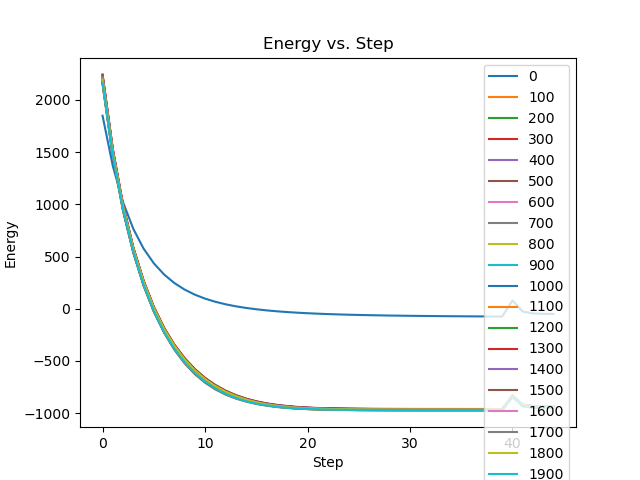
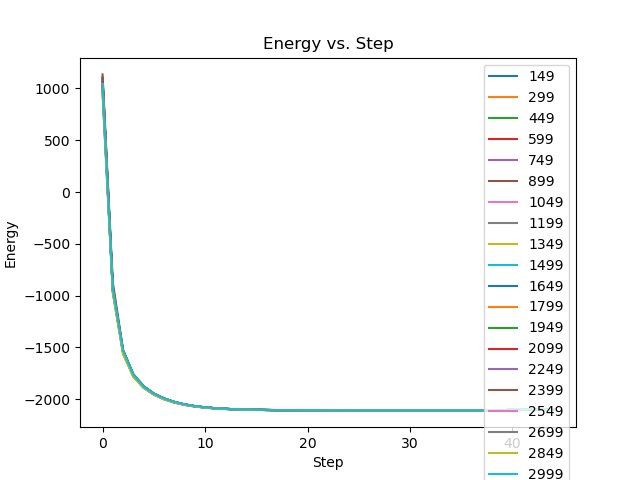
trying to run mnist experiemnts to find working hyperparameters

diff --git a/main.py b/main.py
@@ -8,9 +8,7 @@ import matplotlib.pyplot as plt
 import matplotlib.cm as cm
 import torchvision
 import torchvision.transforms as transforms
-from sklearn.manifold import TSNE
 import numpy as np
-from sklearn.manifold import TSNE
 
 parser = argparse.ArgumentParser()
 parser.add_argument("--input-size", type=int, default=50, help="Size of the input")
@@ -27,6 +25,7 @@ parser.add_argument("--seed", type=int, default=0, help="Random seed")
 parser.add_argument("--init", type=str, default="random", help="Initialization method for weights")
 parser.add_argument("--dataset", type=str, default="mnist", help="Dataset to use")
 parser.add_argument("--mr", type=float, default=0.1, help="Energy minimization rate")
+parser.add_argument("--lam", type=float, default=1.0, help="Lambda value for weight updates")
 args = parser.parse_args()
 
 
@@ -41,14 +40,16 @@ beta = args.beta # 1-40
 batch_dim = args.batch_dim
 n_iters = args.n_iters
 mr = args.mr #0.1
+lam = args.lam
 
 if args.dataset == "mnist":
     # Load the MNIST dataset
-    transform = transforms.Compose([transforms.ToTensor(), transforms.Lambda(lambda x: x.view(-1))])
+    transform = transforms.Compose([transforms.ToTensor(),torchvision.transforms.Normalize(mean=(0.0,), std=(1.0,)),transforms.Lambda(lambda x: x.view(-1))])
     trainset = torchvision.datasets.MNIST(root='~/datasets', train=True, download=True, transform=transform)
     trainloader = torch.utils.data.DataLoader(trainset, batch_size=batch_dim, shuffle=True, num_workers=2)
     testset = torchvision.datasets.MNIST(root='~/datasets', train=False, download=True, transform=transform)
     testloader = torch.utils.data.DataLoader(testset, batch_size=batch_dim, shuffle=False, num_workers=2)
+
 
 # Define the fixed random input x
 if args.dataset == "random":
@@ -68,13 +69,20 @@ target = torch.nn.functional.one_hot(t, num_classes=output_size)
 # Define the optimizer
 
 # For weight updates
-model = HopfieldEnergy(input_size, hidden1_size, hidden2_size, output_size, beta=beta)
+model = HopfieldEnergy(input_size, hidden1_size, hidden2_size, output_size, beta=beta, lam=lam)
 
 
 # Optimization loop
 print("\n\n")
-print("beta: ",beta)
-print("learning_rate: ",learning_rate)
+print(r"$\beta$: ",beta)
+print("Learning rate: ",learning_rate)
+print("Iterations: ",n_iters)
+print("Free phase steps: ",free_steps)
+print("Nudge phase steps: ",nudge_steps)
+print("Minimization rate: ",mr)
+print("batch_dim: ",batch_dim)
+print("\n\n")
+
 error = []
 
 ###############
@@ -123,12 +131,15 @@ for itr in range(n_iters): # Random
     y_free = y.detach().clone()
 
 
-    if (itr+1)%(n_iters//5) == 0:
+    if (itr+1)%(n_iters//10) == 0:
         print("Iteration: ",itr+1)
         # print("Output: ",y_free)
         print("Error: ",(y_free-target).pow(2).sum())
         prediction = torch.argmax(y_free, dim=1)
-        print("Accuracy: ",torch.mean((prediction==t).float()))
+        accuracy = torch.mean((prediction==t).float())
+        print("Accuracy: ",accuracy)
+        if accuracy < 0.2:
+            assert(0)   # Kill if not learning
 
     error.append((y_free-target).pow(2).sum())
 
@@ -168,7 +179,7 @@ for itr in range(n_iters): # Random
     model.b2.weight.data += learning_rate * b2_update
     model.b3.weight.data += learning_rate * b3_update
 
-    if itr%100==0:
+    if (itr+1)%(n_iters//20) == 0:
         # Plot the energies
         plt.plot(energies,label=str(itr))
         plt.xlabel('Step')
@@ -176,7 +187,7 @@ for itr in range(n_iters): # Random
         plt.title('Energy vs. Step')
         plt.legend()
         plt.savefig('energy_vs_step.png')
-
+    if (itr+1)%(n_iters//200) == 0:
         # Plot the error
         plt.figure()
         plt.plot(error)
@@ -220,31 +231,33 @@ y_free = y.detach().clone()
 
 # print(y_free)
 
-# t-SNE plot to visualize clusters in h1_free
-colors = [t[i % batch_dim] for i in range(batch_dim * n_samples)]  # Example color vector
-cmap = cm.get_cmap('viridis')
-s, alpha = 2, 0.02
+# # t-SNE plot to visualize clusters in h1_free
+# from sklearn.manifold import TSNE
 
-X_embedded_h1 = TSNE(n_components=2).fit_transform(h1_free.numpy())
-plt.subplot(1, 3, 1)
-plt.scatter(X_embedded_h1[:, 0], X_embedded_h1[:, 1], c=colors, s=s, alpha=alpha, cmap=cmap)
-plt.title('hidden 1')
-plt.gca().set_aspect('equal')
+# colors = [t[i % batch_dim] for i in range(batch_dim * n_samples)]  # Example color vector
+# cmap = cm.get_cmap('viridis')
+# s, alpha = 2, 0.02
 
-# t-SNE plot to visualize clusters in h2_free
-X_embedded_h2 = TSNE(n_components=2).fit_transform(h2_free.numpy())
-plt.subplot(1, 3, 2)
-plt.scatter(X_embedded_h2[:, 0], X_embedded_h2[:, 1], c=colors, s=s, alpha=alpha, cmap=cmap)
-plt.title('hidden 2')
-plt.gca().set_aspect('equal')
+# X_embedded_h1 = TSNE(n_components=2).fit_transform(h1_free.numpy())
+# plt.subplot(1, 3, 1)
+# plt.scatter(X_embedded_h1[:, 0], X_embedded_h1[:, 1], c=colors, s=s, alpha=alpha, cmap=cmap)
+# plt.title('hidden 1')
+# plt.gca().set_aspect('equal')
 
-# t-SNE plot to visualize clusters in y_free
-X_embedded_y = TSNE(n_components=2).fit_transform(y_free.numpy())
-plt.subplot(1, 3, 3)
-plt.scatter(X_embedded_y[:, 0], X_embedded_y[:, 1], c=colors, s=s, alpha=alpha, cmap=cmap)
-plt.title('output')
-plt.gca().set_aspect('equal')
+# # t-SNE plot to visualize clusters in h2_free
+# X_embedded_h2 = TSNE(n_components=2).fit_transform(h2_free.numpy())
+# plt.subplot(1, 3, 2)
+# plt.scatter(X_embedded_h2[:, 0], X_embedded_h2[:, 1], c=colors, s=s, alpha=alpha, cmap=cmap)
+# plt.title('hidden 2')
+# plt.gca().set_aspect('equal')
 
-plt.tight_layout()
-plt.figure(figsize=(10, 6))  # Adjust the figure size
-plt.savefig('clusters.png')
+# # t-SNE plot to visualize clusters in y_free
+# X_embedded_y = TSNE(n_components=2).fit_transform(y_free.numpy())
+# plt.subplot(1, 3, 3)
+# plt.scatter(X_embedded_y[:, 0], X_embedded_y[:, 1], c=colors, s=s, alpha=alpha, cmap=cmap)
+# plt.title('output')
+# plt.gca().set_aspect('equal')
+
+# plt.tight_layout()
+# plt.figure(figsize=(10, 6))  # Adjust the figure size
+# plt.savefig('clusters.png')

diff --git a/utils.py b/utils.py
@@ -2,7 +2,7 @@ import torch
 import torch.nn as nn
 
 class HopfieldEnergy(nn.Module):
-    def __init__(self, input_size, hidden1_size, hidden2_size, output_size, beta=1.0):
+    def __init__(self, input_size, hidden1_size, hidden2_size, output_size, beta=1.0, lam=1.0):
         super(HopfieldEnergy, self).__init__()
         # self.w1 = nn.Parameter(torch.randn(input_size,hidden1_size))
         # self.b1 = nn.Parameter(torch.randn(hidden1_size))
@@ -20,6 +20,7 @@ class HopfieldEnergy(nn.Module):
         self.b3 = nn.Linear(output_size, 1, bias=False)
 
         self.beta = beta
+        self.lam = lam
 
         # self.F = nn.MSELoss()
 
@@ -65,7 +66,7 @@ class HopfieldEnergy(nn.Module):
         # l2 = h1.pow(2).sum() + h2.pow(2).sum() + y.pow(2).sum() # Old version
 
         # Total energy
-        E = energy1 + energy2 + energy3 + 0.5*l2
+        E = energy1 + energy2 + energy3 + self.lam*0.5*l2
 
         # Nudge energy
         if target is not None:
